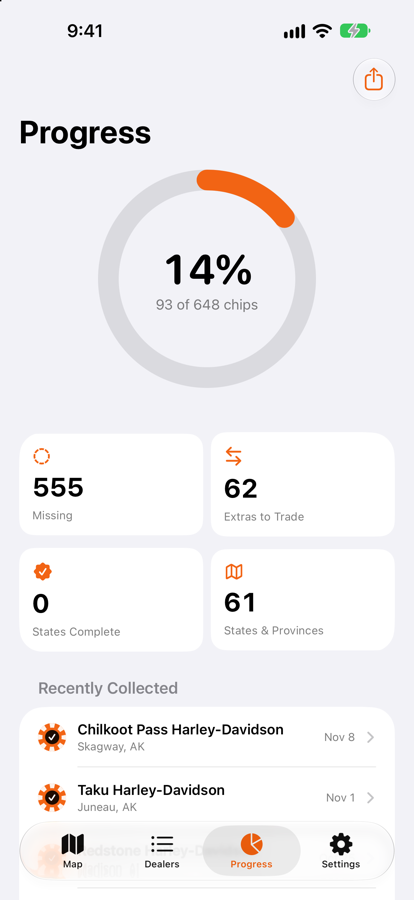
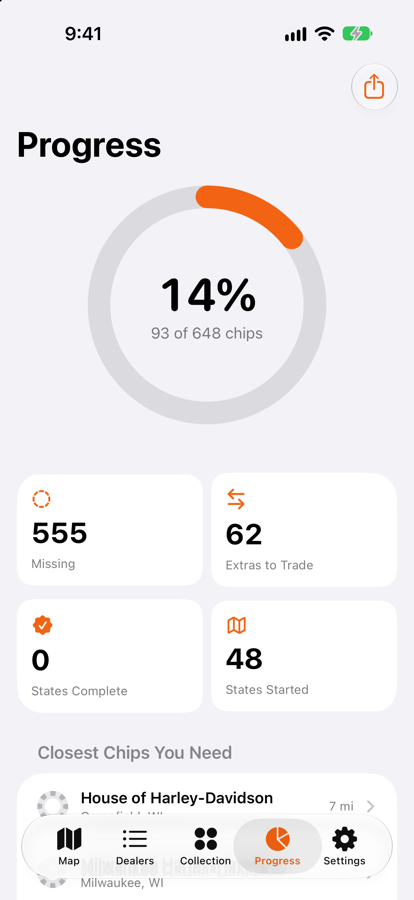
Finish 1.4: one alert style, scanner tidy-up, new screenshots
- Every plain OK alert goes through one helper.
- Two rows of one scan set to the same dealer count as one chip, and the
  first row's photo is kept.
- -debugImportBackup imports a backup file at launch, for simulator checks.
- Retake the iPhone 6.9", 6.3" and folded Duo screenshots and the README
  ones: the map groups pins, Dealers has a state index, and Progress shows
  the closest chips still needed.

diff --git a/HarleyChipTracker/Views/SettingsView.swift b/HarleyChipTracker/Views/SettingsView.swift
@@ -100,6 +100,11 @@ struct SettingsView: View {
                 }
             }
             .navigationTitle("Settings")
+            #if DEBUG
+            .task {
+                if let path = DebugLaunch.importBackup { importBackup(.success(URL(filePath: path))) }
+            }
+            #endif
             .fileImporter(isPresented: $importing, allowedContentTypes: [.json]) { result in
                 importBackup(result)
             }
@@ -108,14 +113,7 @@ struct SettingsView: View {
             } message: {
                 Text("This deletes every chip you've marked, your notes, and stores you added, on this iPhone and in iCloud. Automatic backups on this iPhone are kept, so you can restore them from Settings. Your chip photos are kept too.")
             }
-            .alert(message?.title ?? "", isPresented: Binding(
-                get: { message != nil },
-                set: { if !$0 { message = nil } }
-            ), presenting: message) { _ in
-                Button("OK") {}
-            } message: { message in
-                Text(message.body)
-            }
+            .alert($message)
         }
     }
 
@@ -157,10 +155,25 @@ struct SettingsView: View {
     }
 }
 
+/// A title and a sentence or two for a plain OK alert.
 struct AlertMessage: Identifiable {
     let id = UUID()
     let title: String
     let body: String
+}
+
+extension View {
+    /// Shows `message` as an alert with an OK button, and clears it when dismissed.
+    func alert(_ message: Binding<AlertMessage?>) -> some View {
+        alert(message.wrappedValue?.title ?? "", isPresented: Binding(
+            get: { message.wrappedValue != nil },
+            set: { if !$0 { message.wrappedValue = nil } }
+        ), presenting: message.wrappedValue) { _ in
+            Button("OK") {}
+        } message: { message in
+            Text(message.body)
+        }
+    }
 }
 
 extension Bundle {

diff --git a/HarleyChipTracker/Views/ChipScannerView.swift b/HarleyChipTracker/Views/ChipScannerView.swift
@@ -76,14 +76,7 @@ struct ChipScannerView: View {
                 }
             }
         }
-        .alert(problem?.title ?? "", isPresented: Binding(
-            get: { problem != nil },
-            set: { if !$0 { problem = nil } }
-        ), presenting: problem) { _ in
-            Button("OK") {}
-        } message: { problem in
-            Text(problem.body)
-        }
+        .alert($problem)
         .task {
             app.location.refresh()
             #if DEBUG
@@ -362,7 +355,8 @@ struct ChipScannerView: View {
         var dealers: [Dealer] = []
         var unsavedPhotos = 0
         for item in items where item.selected {
-            guard let dealer = item.dealer else { continue }
+            // Two rows set to the same dealer are one chip: the first row's photo is the one kept.
+            guard let dealer = item.dealer, !dealers.contains(dealer) else { continue }
             context.setCollected(true, dealerID: dealer.id)
             do {
                 try app.photos.save(item.photo, for: dealer.id)
@@ -370,7 +364,7 @@ struct ChipScannerView: View {
                 unsavedPhotos += 1
                 print("Couldn't save the photo for \(dealer.id): \(error)")
             }
-            if !dealers.contains(dealer) { dealers.append(dealer) }
+            dealers.append(dealer)
         }
         try? context.save()
         added = dealers

diff --git a/HarleyChipTracker/Data/AutomaticBackups.swift b/HarleyChipTracker/Data/AutomaticBackups.swift
@@ -173,14 +173,7 @@ struct AutomaticBackupsView: View {
         } message: { entry in
             Text("Saved \(entry.savedAt.formatted(date: .abbreviated, time: .shortened)): \(entry.summary). Chips you've marked since stay marked.")
         }
-        .alert(message?.title ?? "", isPresented: Binding(
-            get: { message != nil },
-            set: { if !$0 { message = nil } }
-        ), presenting: message) { _ in
-            Button("OK") {}
-        } message: { message in
-            Text(message.body)
-        }
+        .alert($message)
     }
 
     private func restore(_ entry: AutomaticBackups.Entry) {

diff --git a/HarleyChipTracker/Views/DealerDetailView.swift b/HarleyChipTracker/Views/DealerDetailView.swift
@@ -138,14 +138,7 @@ struct DealerDetailView: View {
             libraryItem = nil
             Task { await saveLibraryPhoto(item) }
         }
-        .alert(photoProblem?.title ?? "", isPresented: Binding(
-            get: { photoProblem != nil },
-            set: { if !$0 { photoProblem = nil } }
-        ), presenting: photoProblem) { _ in
-            Button("OK") {}
-        } message: { problem in
-            Text(problem.body)
-        }
+        .alert($photoProblem)
         .sheet(isPresented: $showingPhoto) {
             ChipPhotoViewer(dealer: dealer)
         }

diff --git a/HarleyChipTracker/App/HarleyChipTrackerApp.swift b/HarleyChipTracker/App/HarleyChipTrackerApp.swift
@@ -56,6 +56,8 @@ enum DebugLaunch {
     static var dealerID: String? { UserDefaults.standard.string(forKey: "debugDealer") }
     /// Opens Collection's photo scanner on this image file.
     static var scanImage: String? { UserDefaults.standard.string(forKey: "debugScanImage") }
+    /// With `-debugTab settings`: imports this backup file as if picked in Import Backup.
+    static var importBackup: String? { UserDefaults.standard.string(forKey: "debugImportBackup") }
     static var scanAutoAdd: Bool { UserDefaults.standard.bool(forKey: "debugScanAdd") }
 }
 #endif

diff --git a/README.md b/README.md
@@ -86,7 +86,7 @@ From the command line:
 xcodebuild test -project HarleyChipTracker.xcodeproj -scheme HarleyChipTracker -destination 'platform=iOS Simulator,name=iPhone 18 Pro'
 ```
 
-Debug builds accept `-demoData YES` (in-memory sample collection), `-debugTab dealers|collection|progress|settings` (the app opens on the map otherwise), `-debugDealer <id>` (with `-debugTab dealers`), and `-debugScanImage <path>` (with `-debugTab collection`: opens Add from Photo on that image; add `-debugScanAdd YES` to add what it finds) launch arguments for screenshots and simulator checks. The App Store set in `docs/appstore/` is, in order: `-demoData YES`, then adding `-debugTab collection`, `-debugTab dealers`, `-debugTab dealers -debugDealer hd-210`, and `-debugTab progress`, with the simulator's location set to Milwaukee (43.0389, -87.9065) and the status bar at 9:41. `Tools/capture_screenshots.sh <simulator> <out dir> [display]` takes the whole set. It fills the demo collection's photos with original stand-in chips drawn by `Tools/make_demo_chip_photos.swift` (not any real chip design).
+Debug builds accept `-demoData YES` (in-memory sample collection), `-debugTab dealers|collection|progress|settings` (the app opens on the map otherwise), `-debugDealer <id>` (with `-debugTab dealers`), and `-debugScanImage <path>` (with `-debugTab collection`: opens Add from Photo on that image; add `-debugScanAdd YES` to add what it finds), and `-debugImportBackup <path>` (with `-debugTab settings`: imports that backup file) launch arguments for screenshots and simulator checks. The App Store set in `docs/appstore/` is, in order: `-demoData YES`, then adding `-debugTab collection`, `-debugTab dealers`, `-debugTab dealers -debugDealer hd-210`, and `-debugTab progress`, with the simulator's location set to Milwaukee (43.0389, -87.9065) and the status bar at 9:41. `Tools/capture_screenshots.sh <simulator> <out dir> [display]` takes the whole set. It fills the demo collection's photos with original stand-in chips drawn by `Tools/make_demo_chip_photos.swift` (not any real chip design).
 
 ## Releasing to TestFlight
 
